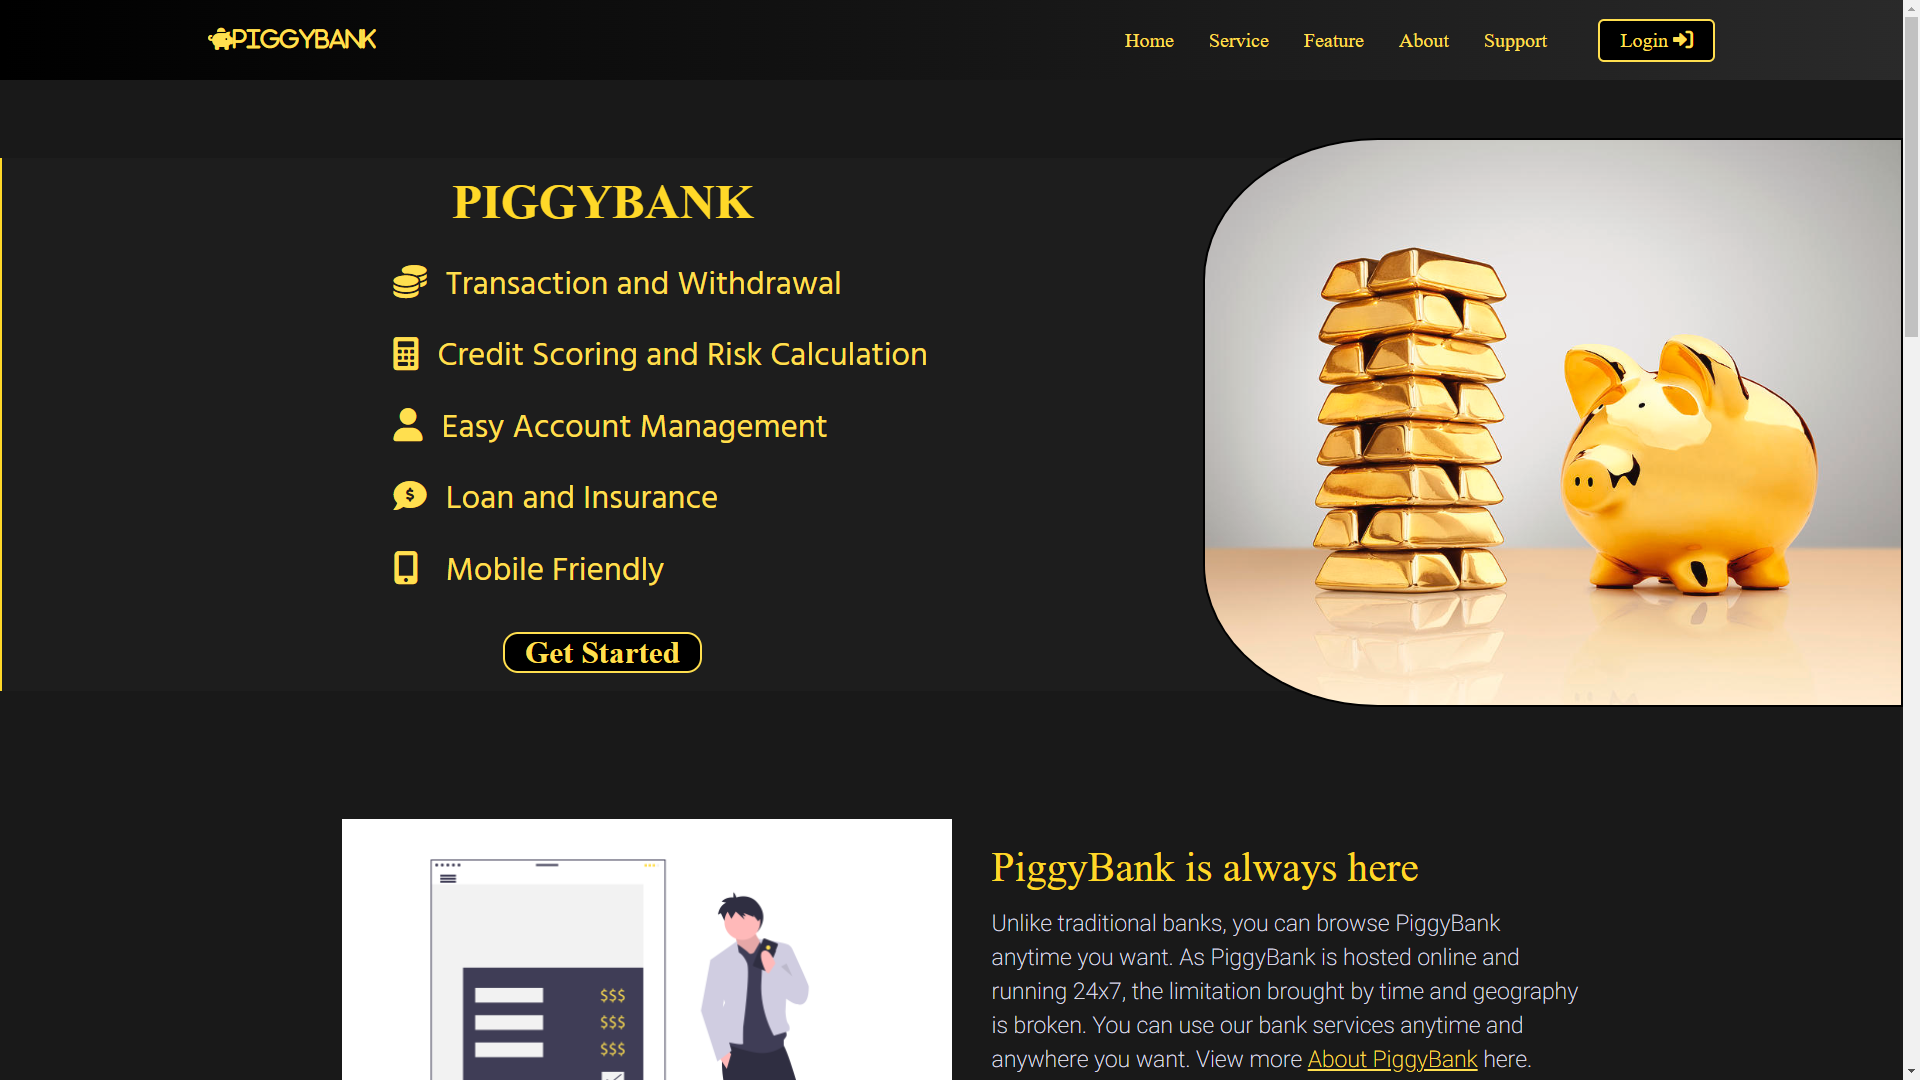
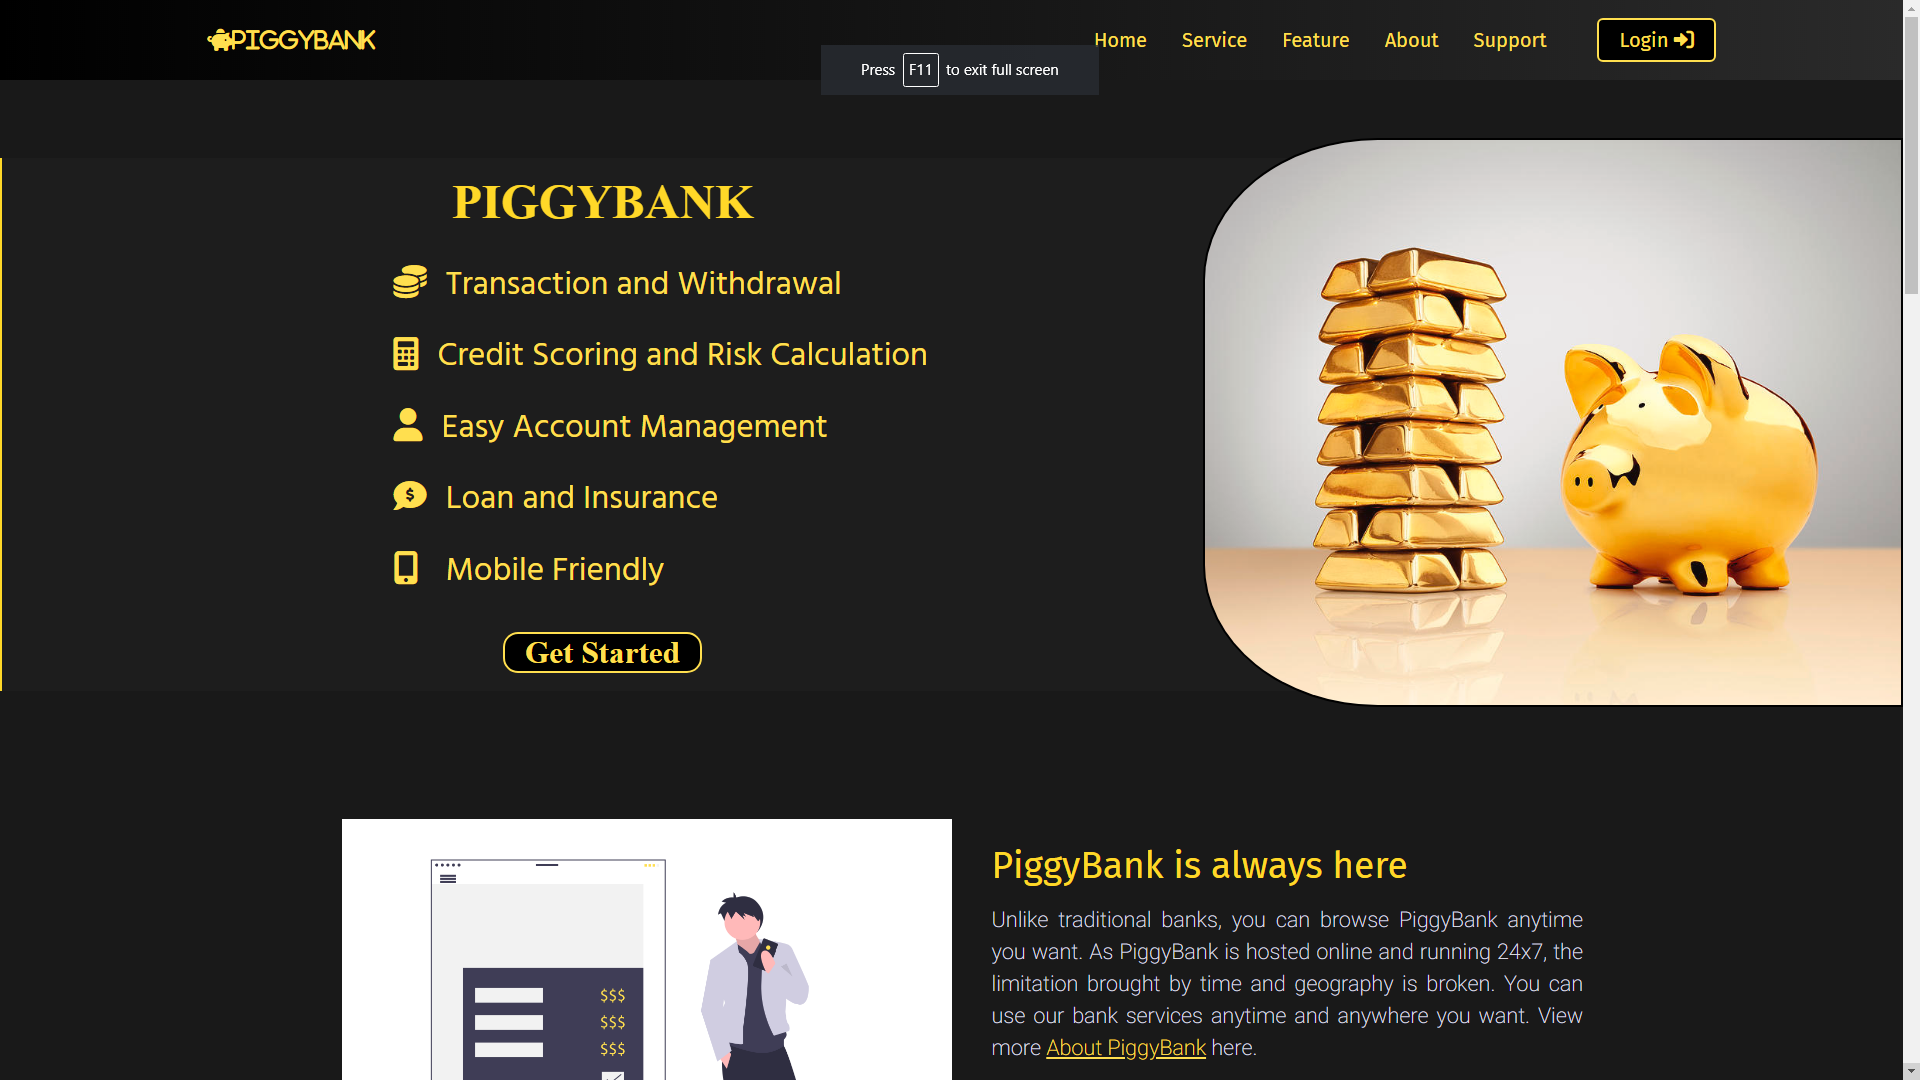
update

diff --git a/frontend/src/pages/home.css b/frontend/src/pages/home.css
@@ -119,22 +119,22 @@ html,body{
 }
 
 .homeLeftGridHeader{
-    font-size: calc(10.5px + 1.6vw);
+    font-size: calc(14px + 1.2vw);
     padding: 1.5rem 0rem 1rem 2.5rem;
     color: rgb(255, 216, 40);
     font-family: 'Fira Sans', sans-serif;
 }
 
 .homeLeftGridBody{
-    font-size: calc(8px + 0.78vw);
+    font-size: calc(12px + 0.5vw);
     font-family: 'Heebo', sans-serif;
     color:rgb(220, 220, 228);
     padding: 0rem 20rem 0rem 2.5rem;
+    text-align: justify;
 }
 
-
 .homeRightGridHeader{
-    font-size: calc(10.5px + 1.6vw);
+    font-size: calc(14px + 1.2vw);
     float: right;
     padding: 1.5rem 2.5rem 1rem 0rem;
     color: rgb(255, 216, 40);
@@ -142,14 +142,13 @@ html,body{
 }
 
 .homeRightGridBody{
-    font-size: calc(8px + 0.78vw);
+    font-size: calc(12px + 0.5vw);
     font-family: 'Heebo', sans-serif;
     color:rgb(220, 220, 228);
     padding: 0rem 2.5rem 0rem 20rem;
-    text-align: right;
     float: right;
+    text-align: justify;
 }
-
 
 .homeContainer1{
     display: grid;
